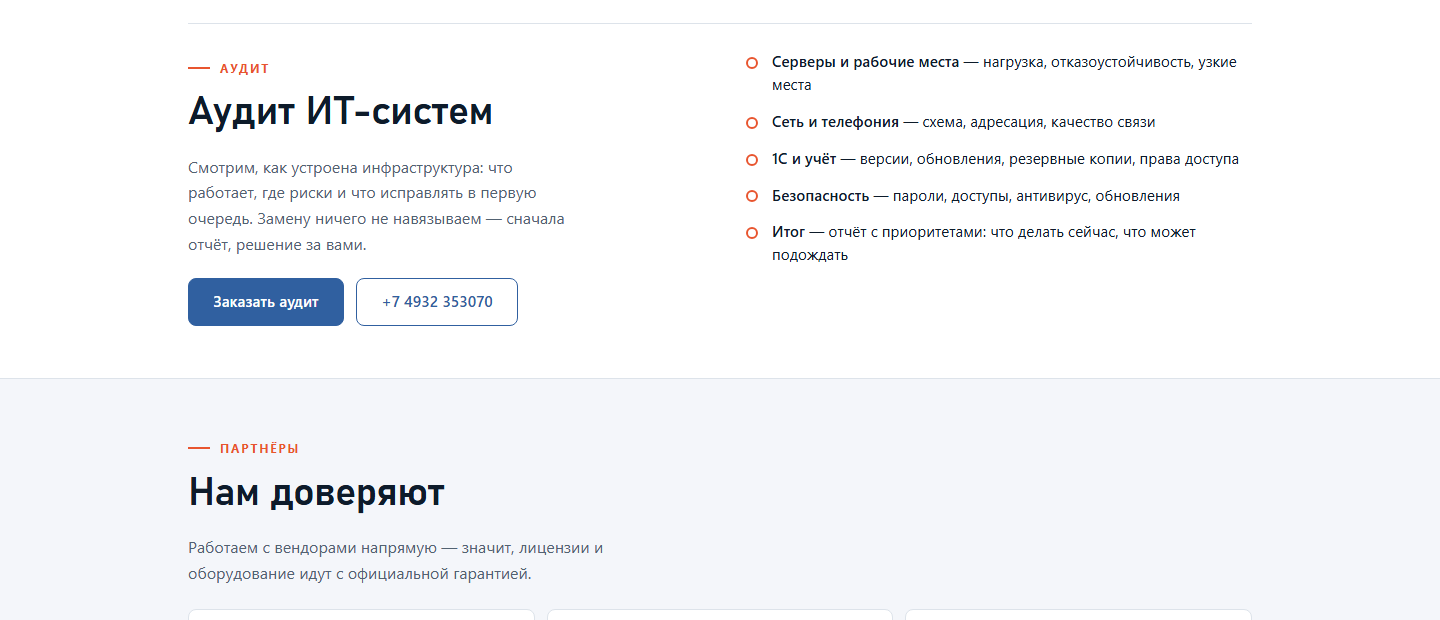
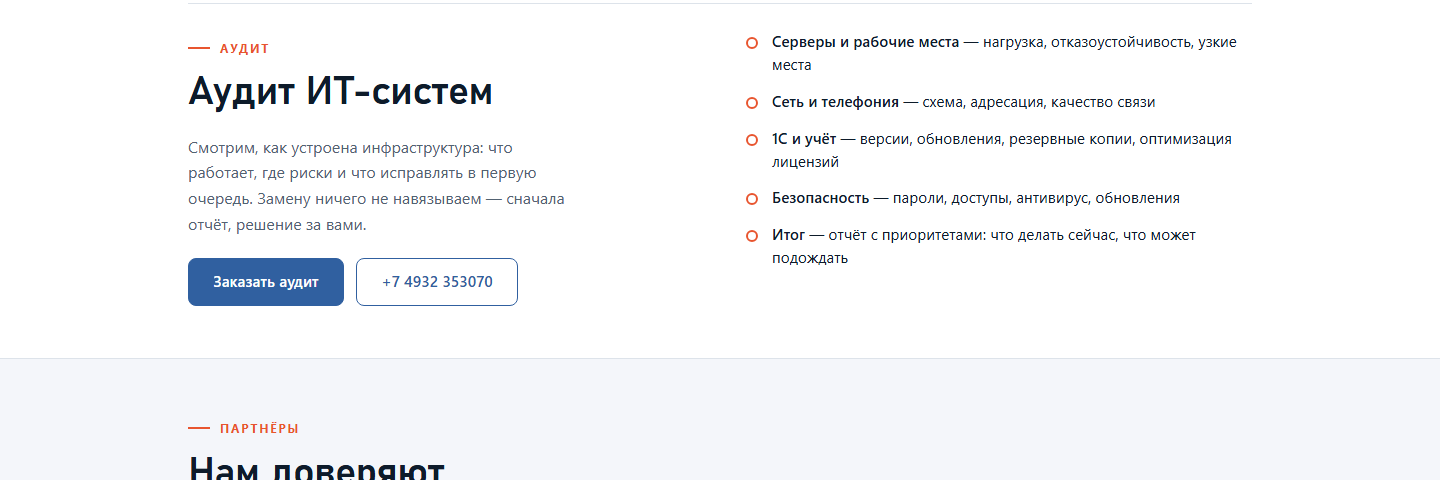
Аудит: в пункте 1С — оптимизация лицензий вместо прав доступа

diff --git a/index.html b/index.html
@@ -24,7 +24,7 @@
 
   <link rel="icon" href="assets/icon.png" type="image/png">
   <link rel="apple-touch-icon" href="assets/icon.png">
-  <link rel="stylesheet" href="assets/style.css?v=20261138">
+  <link rel="stylesheet" href="assets/style.css?v=20261139">
 
   <script type="application/ld+json">
   {
@@ -74,7 +74,7 @@
   <header class="site-header">
     <div class="container header-inner">
       <a class="brand" href="#top" aria-label="Интер-Техника-Плюс — на главную">
-        <img class="brand-logo" src="assets/logo.png?v=20261138" alt="Интер-Техника-Плюс" width="112" height="44">
+        <img class="brand-logo" src="assets/logo.png?v=20261139" alt="Интер-Техника-Плюс" width="112" height="44">
         <span class="brand-name">Интер-Техника<span class="brand-plus">+</span></span>
       </a>
 
@@ -228,7 +228,7 @@
           <ul class="audit__list">
             <li><b>Серверы и рабочие места</b> — нагрузка, отказоустойчивость, узкие места</li>
             <li><b>Сеть и телефония</b> — схема, адресация, качество связи</li>
-            <li><b>1С и учёт</b> — версии, обновления, резервные копии, права доступа</li>
+            <li><b>1С и учёт</b> — версии, обновления, резервные копии, оптимизация лицензий</li>
             <li><b>Безопасность</b> — пароли, доступы, антивирус, обновления</li>
             <li><b>Итог</b> — отчёт с приоритетами: что делать сейчас, что может подождать</li>
           </ul>
@@ -393,7 +393,7 @@
     <a class="btn btn--ghost" href="wa.html" target="_blank" rel="noopener">Написать</a>
   </div>
 
-  <script src="assets/app.js?v=20261138" defer></script>
-  <script src="assets/map.js?v=20261138" defer></script>
+  <script src="assets/app.js?v=20261139" defer></script>
+  <script src="assets/map.js?v=20261139" defer></script>
 </body>
 </html>

diff --git a/requisites.html b/requisites.html
@@ -8,13 +8,13 @@
   <link rel="canonical" href="https://ivu.ru/requisites.html">
   <link rel="icon" href="assets/icon.png" type="image/png">
   <link rel="apple-touch-icon" href="assets/icon.png">
-  <link rel="stylesheet" href="assets/style.css?v=20261138">
+  <link rel="stylesheet" href="assets/style.css?v=20261139">
 </head>
 <body>
   <header class="site-header">
     <div class="container header-inner">
       <a class="brand" href="index.html" aria-label="Интер-Техника-Плюс — на главную">
-        <img class="brand-logo" src="assets/logo.png?v=20261138" alt="Интер-Техника-Плюс" width="112" height="44">
+        <img class="brand-logo" src="assets/logo.png?v=20261139" alt="Интер-Техника-Плюс" width="112" height="44">
         <span class="brand-name">Интер-Техника<span class="brand-plus">+</span></span>
       </a>
       <button class="nav-toggle" type="button" aria-expanded="false" aria-controls="nav">
@@ -134,6 +134,6 @@
     </div>
   </footer>
 
-  <script src="assets/app.js?v=20261138" defer></script>
+  <script src="assets/app.js?v=20261139" defer></script>
 </body>
 </html>

diff --git a/privacy.html b/privacy.html
@@ -8,13 +8,13 @@
   <meta name="robots" content="noindex, follow">
   <link rel="icon" href="assets/icon.png" type="image/png">
   <link rel="apple-touch-icon" href="assets/icon.png">
-  <link rel="stylesheet" href="assets/style.css?v=20261138">
+  <link rel="stylesheet" href="assets/style.css?v=20261139">
 </head>
 <body>
   <header class="site-header">
     <div class="container header-inner">
       <a class="brand" href="index.html" aria-label="Интер-Техника-Плюс — на главную">
-        <img class="brand-logo" src="assets/logo.png?v=20261138" alt="Интер-Техника-Плюс" width="112" height="44">
+        <img class="brand-logo" src="assets/logo.png?v=20261139" alt="Интер-Техника-Плюс" width="112" height="44">
         <span class="brand-name">Интер-Техника<span class="brand-plus">+</span></span>
       </a>
       <button class="nav-toggle" type="button" aria-expanded="false" aria-controls="nav">
@@ -102,6 +102,6 @@
     </div>
   </footer>
 
-  <script src="assets/app.js?v=20261138" defer></script>
+  <script src="assets/app.js?v=20261139" defer></script>
 </body>
 </html>

diff --git a/404.html b/404.html
@@ -7,13 +7,13 @@
   <meta name="robots" content="noindex">
   <link rel="icon" href="assets/icon.png" type="image/png">
   <link rel="apple-touch-icon" href="assets/icon.png">
-  <link rel="stylesheet" href="assets/style.css?v=20261138">
+  <link rel="stylesheet" href="assets/style.css?v=20261139">
 </head>
 <body>
   <header class="site-header">
     <div class="container header-inner">
       <a class="brand" href="index.html" aria-label="Интер-Техника-Плюс — на главную">
-        <img class="brand-logo" src="assets/logo.png?v=20261138" alt="Интер-Техника-Плюс" width="112" height="44">
+        <img class="brand-logo" src="assets/logo.png?v=20261139" alt="Интер-Техника-Плюс" width="112" height="44">
         <span class="brand-name">Интер-Техника<span class="brand-plus">+</span></span>
       </a>
       <nav class="nav" aria-label="Основная навигация">
@@ -47,6 +47,6 @@
     </div>
   </footer>
 
-  <script src="assets/app.js?v=20261138" defer></script>
+  <script src="assets/app.js?v=20261139" defer></script>
 </body>
 </html>
